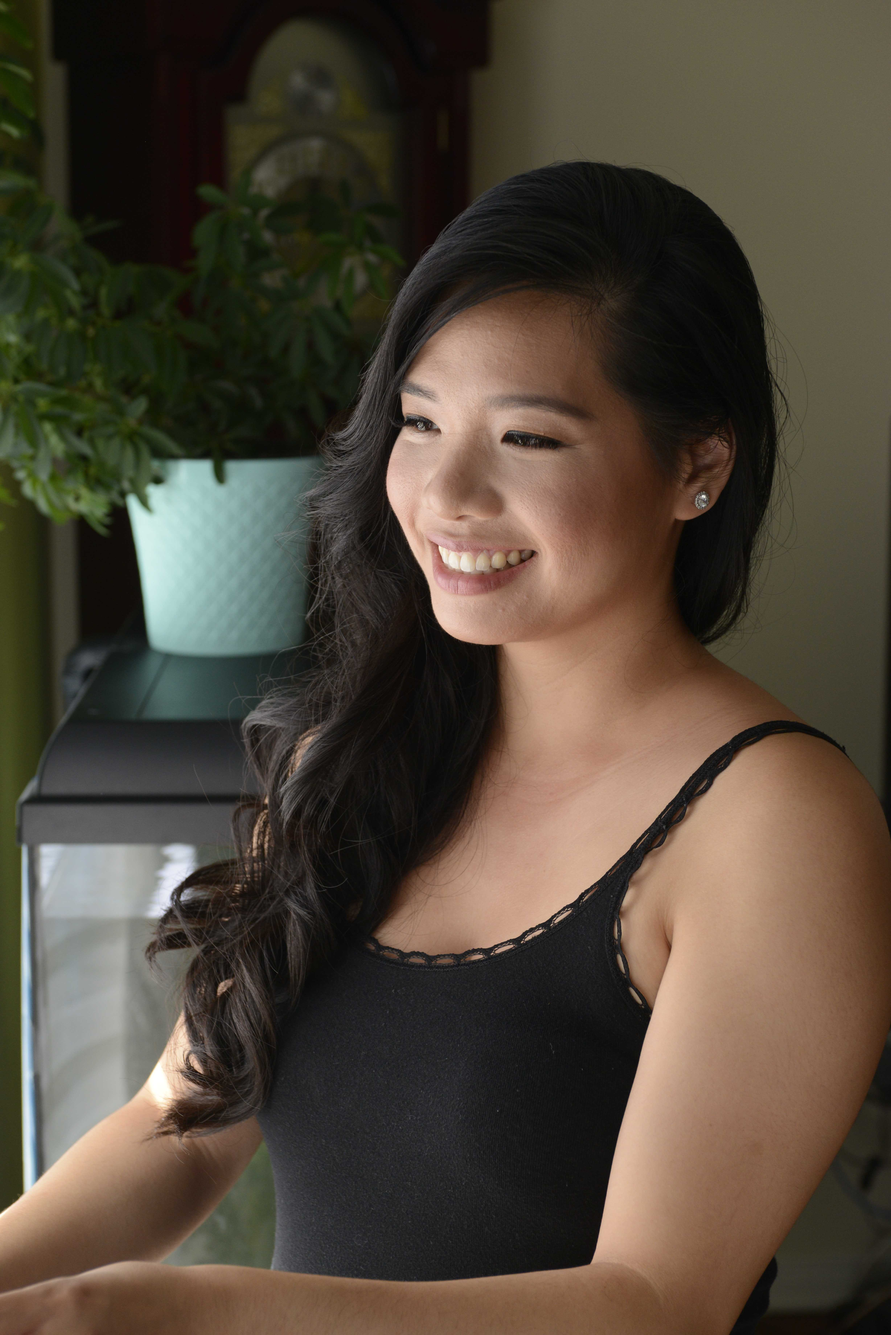
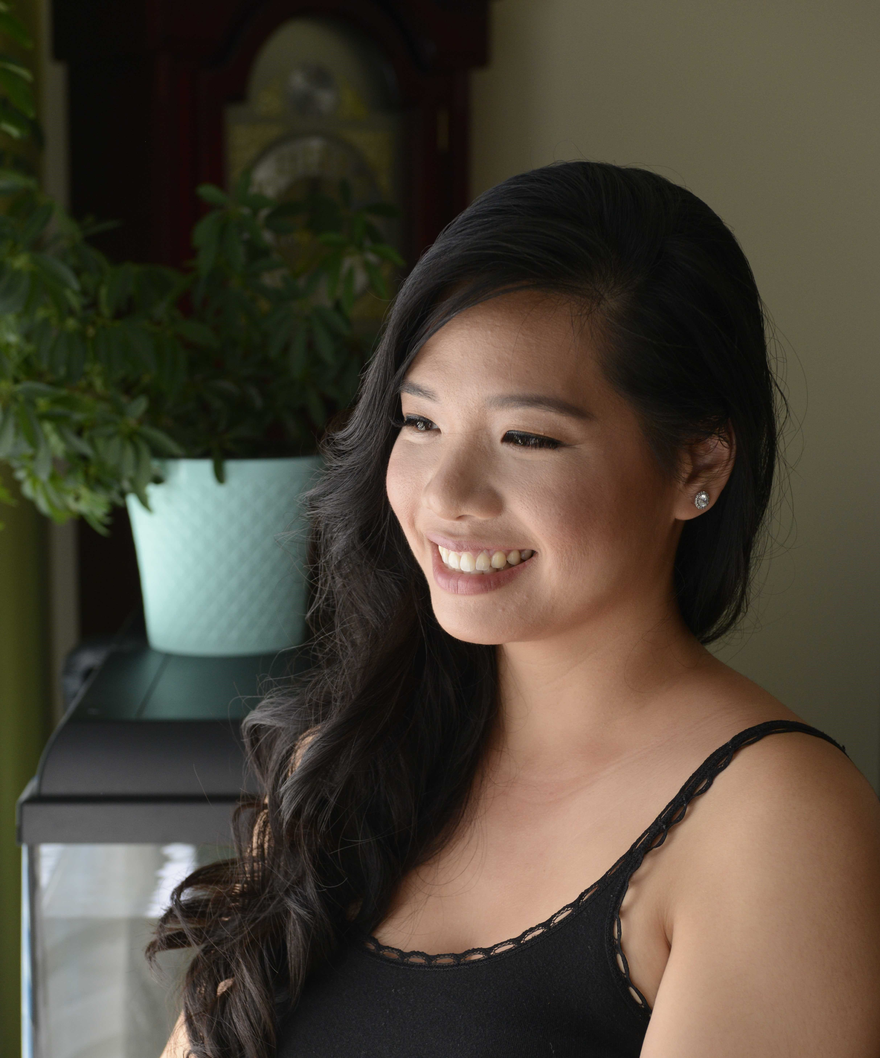
img adj

diff --git a/client/src/components/About/About.js b/client/src/components/About/About.js
@@ -22,7 +22,7 @@ const About = () => {
         </Title>
         <ProfileWrapper>
           <ProfileContainer1>
-            <Pic1 src={Thinh} style={{ width: 250, height: 400 }} />
+            <Pic1 src={Thinh} style={{ width: 270, height: 300 }} />
             <div>Thinh Nguyen</div>
 
             <p>
@@ -34,7 +34,7 @@ const About = () => {
             </p>
           </ProfileContainer1>
           <ProfileContainer2>
-            <Pic2 src={Ivan} style={{ width: 290, height: 400 }} />
+            <Pic2 src={Ivan} style={{ width: 290, height: 300 }} />
             <div>Ivan Escalante</div>
             <p>
               Hi, I'm Ivan! I am currently studying Full-stack Web Development (
@@ -49,12 +49,12 @@ const About = () => {
             </p>
           </ProfileContainer2>
           <ProfileContainer3>
-            <Pic3 src={Jenny} style={{ width: 250, height: 400 }} />
+            <Pic3 src={Jenny} style={{ width: 270, height: 300 }} />
             <div>Jenny Ma</div>
             <p>Hi, I'm Jenny! I'm a Full Stack Web Developer.</p>
           </ProfileContainer3>
           <ProfileContainer4>
-            <Pic4 src={Truong} style={{ width: 270, height: 400 }} />
+            <Pic4 src={Truong} style={{ width: 270, height: 300 }} />
             <div>Ton Truong Dao</div>
             <p>Hi, I'm Truong! I'm a Full Stack Web Developer.</p>
           </ProfileContainer4>
@@ -82,10 +82,18 @@ const ProfileWrapper = styled.div`
   justify-content: space-between;
   text-align: center;
 `;
-const Pic1 = styled.img``;
-const Pic2 = styled.img``;
-const Pic3 = styled.img``;
-const Pic4 = styled.img``;
+const Pic1 = styled.img`
+  border-radius: 50%;
+`;
+const Pic2 = styled.img`
+  border-radius: 50%;
+`;
+const Pic3 = styled.img`
+  border-radius: 50%;
+`;
+const Pic4 = styled.img`
+  border-radius: 50%;
+`;
 
 const ProfileContainer1 = styled.div`
   width: 500px;
